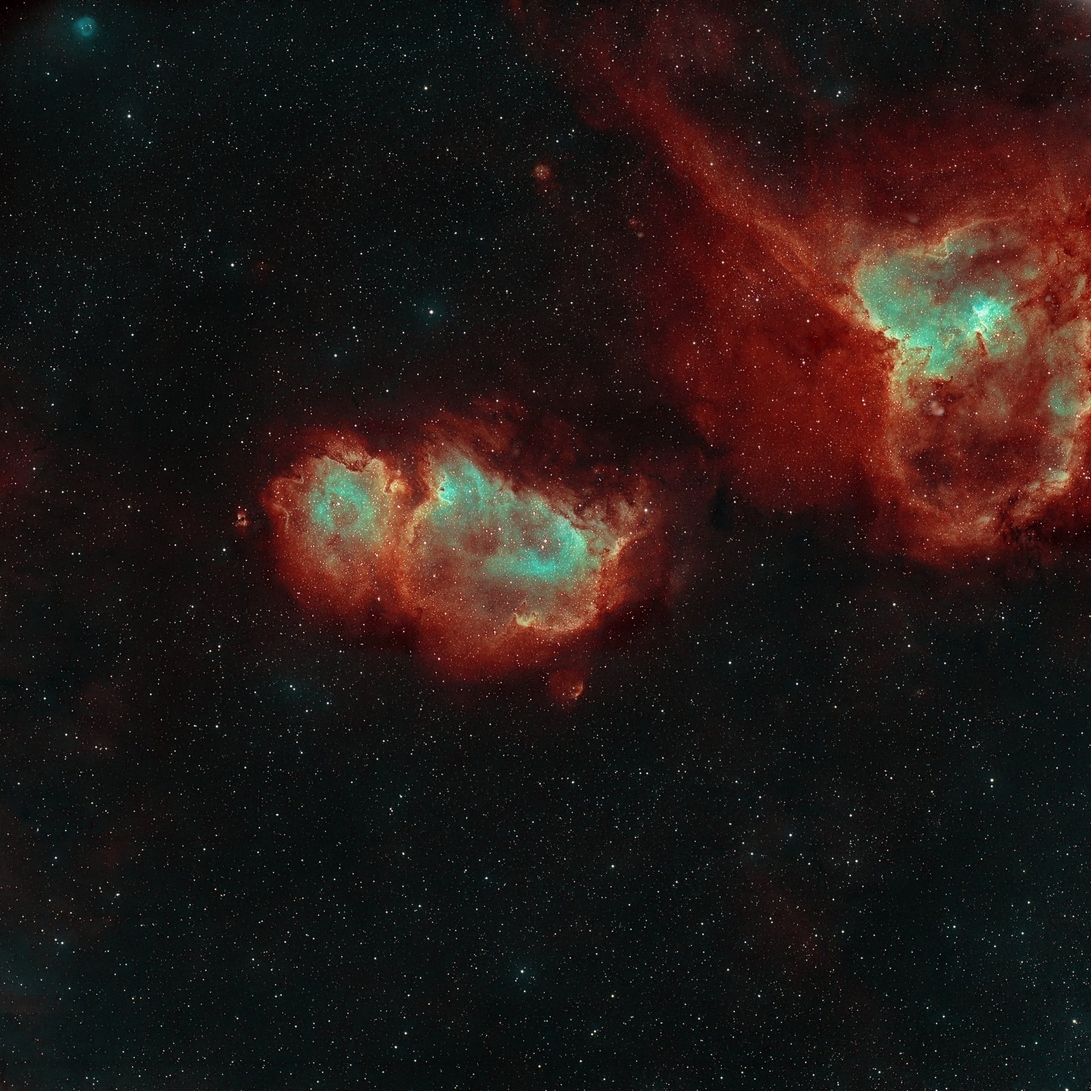
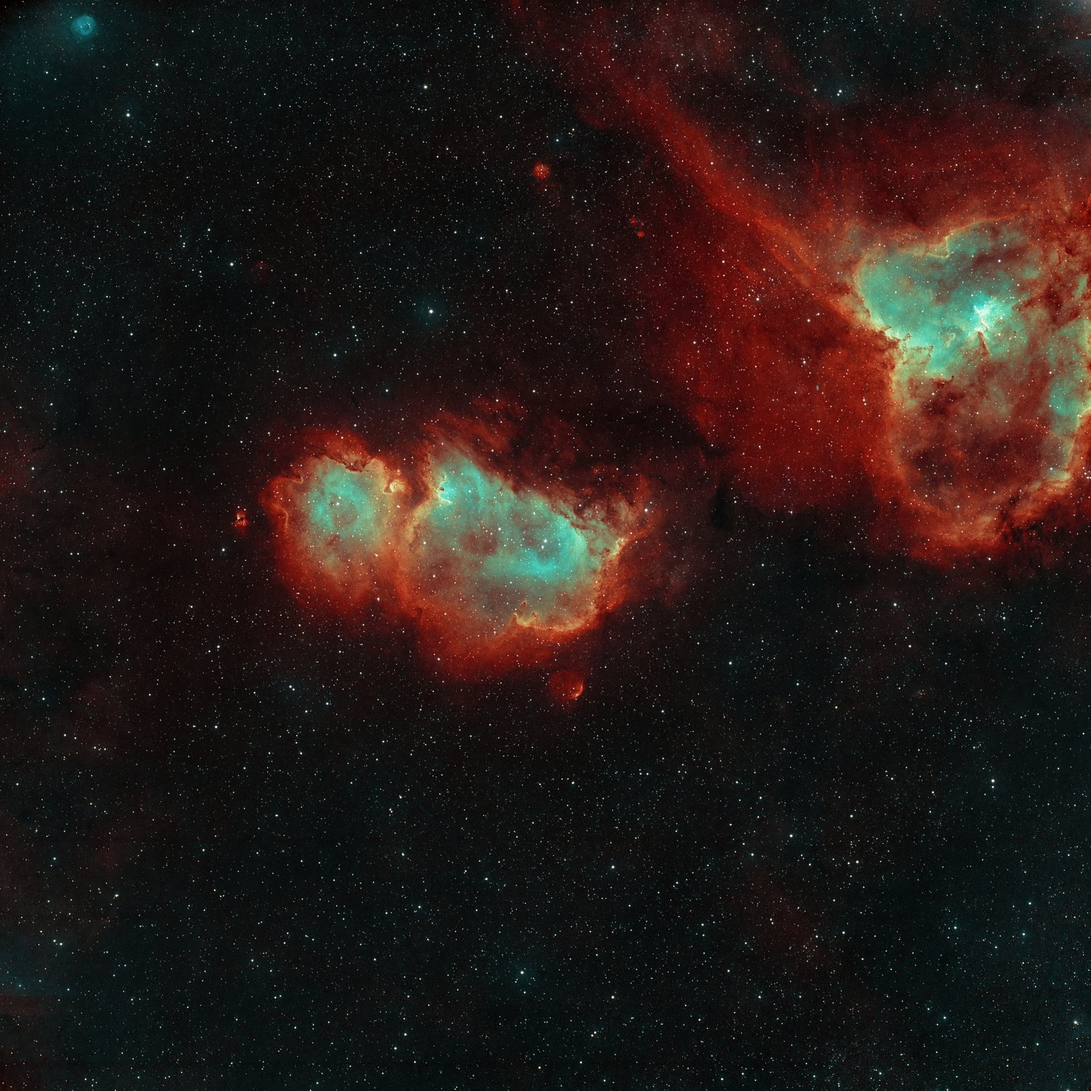
Prints: IC 1848 from a 2x drizzle (bigger sizes, Soul Nebula added)

diff --git a/index.html b/index.html
@@ -331,11 +331,15 @@ html { scroll-behavior: smooth; }
       </figure>
       <figure class="print">
         <img src="img/tl_ic1848_wide.jpg" alt="Heart and Soul, wide field (IC 1805 and IC 1848)" loading="lazy">
-        <figcaption><b>Heart and Soul, wide field (IC 1805 and IC 1848)</b><span>21 h 50 min</span><span class="credit">Processed by Mark Stanners, original data from Telescope Live</span><span class="sizes">A4 £25 · A3 £45 · A2 £80</span></figcaption>
+        <figcaption><b>Heart and Soul, wide field (IC 1805 and IC 1848)</b><span>21 h 50 min</span><span class="credit">Processed by Mark Stanners, original data from Telescope Live</span><span class="sizes">A4 £25 · A3 £45 · A2 £80 · A1 £150</span></figcaption>
       </figure>
       <figure class="print">
         <img src="img/tl_ic1848_heart_soul.jpg" alt="Heart and Soul, Telescope Live" loading="lazy">
-        <figcaption><b>Heart and Soul, Telescope Live</b><span>21 h 50 min</span><span class="credit">Processed by Mark Stanners, original data from Telescope Live</span><span class="sizes">A4 £25</span><span class="onreq">A3 on request</span></figcaption>
+        <figcaption><b>Heart and Soul, Telescope Live</b><span>21 h 50 min</span><span class="credit">Processed by Mark Stanners, original data from Telescope Live</span><span class="sizes">A4 £25 · A3 £45 · A2 £80</span><span class="onreq">A1 on request</span></figcaption>
+      </figure>
+      <figure class="print">
+        <img src="img/tl_ic1848_soul.jpg" alt="Soul Nebula, IC 1848" loading="lazy">
+        <figcaption><b>Soul Nebula, IC 1848</b><span>21 h 50 min</span><span class="credit">Processed by Mark Stanners, original data from Telescope Live</span><span class="sizes">A4 £25 · A3 £45</span></figcaption>
       </figure>
       <figure class="print">
         <img src="img/m31_tl_seestar.jpg" alt="Andromeda, deep (Seestar + Telescope Live)" loading="lazy">
@@ -346,8 +350,8 @@ html { scroll-behavior: smooth; }
     <div class="media">
       <h3>Acrylic and metal</h3>
       <p>Most images can also be made as a face-mounted acrylic or an aluminium-mounted print: deep blacks, ready to hang, no frame needed. Priced on request; as a guide, from about £120 at A3 and £220 at A2.</p>
-      <p class="note">At A3: Heart and Soul; Andromeda, M31; The Pleiades, M45; Triangulum, M33; Elephant&#x27;s Trunk, IC 1396; Garlic Nebula; California Nebula, NGC 1499; Horsehead, B33; Fighting Dragons of Ara, NGC 6188; Running Chicken, IC 2944; Dumbbell Nebula, M27; Butterfly Cluster, M7; Eagle Nebula, M16; Heart and Soul, wide field (IC 1805 and IC 1848); Andromeda, deep (Seestar + Telescope Live).</p>
-      <p class="note">At A2: Heart and Soul; Garlic Nebula; Horsehead, B33; Fighting Dragons of Ara, NGC 6188; Running Chicken, IC 2944; Dumbbell Nebula, M27; Butterfly Cluster, M7; Heart and Soul, wide field (IC 1805 and IC 1848); Andromeda, deep (Seestar + Telescope Live).</p>
+      <p class="note">At A3: Heart and Soul; Andromeda, M31; The Pleiades, M45; Triangulum, M33; Elephant&#x27;s Trunk, IC 1396; Garlic Nebula; California Nebula, NGC 1499; Horsehead, B33; Fighting Dragons of Ara, NGC 6188; Running Chicken, IC 2944; Dumbbell Nebula, M27; Butterfly Cluster, M7; Eagle Nebula, M16; Heart and Soul, wide field (IC 1805 and IC 1848); Heart and Soul, Telescope Live; Soul Nebula, IC 1848; Andromeda, deep (Seestar + Telescope Live).</p>
+      <p class="note">At A2: Heart and Soul; Garlic Nebula; Horsehead, B33; Fighting Dragons of Ara, NGC 6188; Running Chicken, IC 2944; Dumbbell Nebula, M27; Butterfly Cluster, M7; Heart and Soul, wide field (IC 1805 and IC 1848); Heart and Soul, Telescope Live; Andromeda, deep (Seestar + Telescope Live).</p>
     </div>
     <p class="note">To order, email me with the picture, size and finish.</p>
   </div>

diff --git a/site.html b/site.html
@@ -317,11 +317,15 @@ html { scroll-behavior: smooth; }
       </figure>
       <figure class="print">
         <img src="img/tl_ic1848_wide.jpg" alt="Heart and Soul, wide field (IC 1805 and IC 1848)" loading="lazy">
-        <figcaption><b>Heart and Soul, wide field (IC 1805 and IC 1848)</b><span>21 h 50 min</span><span class="credit">Processed by Mark Stanners, original data from Telescope Live</span><span class="sizes">A4 £25 · A3 £45 · A2 £80</span></figcaption>
+        <figcaption><b>Heart and Soul, wide field (IC 1805 and IC 1848)</b><span>21 h 50 min</span><span class="credit">Processed by Mark Stanners, original data from Telescope Live</span><span class="sizes">A4 £25 · A3 £45 · A2 £80 · A1 £150</span></figcaption>
       </figure>
       <figure class="print">
         <img src="img/tl_ic1848_heart_soul.jpg" alt="Heart and Soul, Telescope Live" loading="lazy">
-        <figcaption><b>Heart and Soul, Telescope Live</b><span>21 h 50 min</span><span class="credit">Processed by Mark Stanners, original data from Telescope Live</span><span class="sizes">A4 £25</span><span class="onreq">A3 on request</span></figcaption>
+        <figcaption><b>Heart and Soul, Telescope Live</b><span>21 h 50 min</span><span class="credit">Processed by Mark Stanners, original data from Telescope Live</span><span class="sizes">A4 £25 · A3 £45 · A2 £80</span><span class="onreq">A1 on request</span></figcaption>
+      </figure>
+      <figure class="print">
+        <img src="img/tl_ic1848_soul.jpg" alt="Soul Nebula, IC 1848" loading="lazy">
+        <figcaption><b>Soul Nebula, IC 1848</b><span>21 h 50 min</span><span class="credit">Processed by Mark Stanners, original data from Telescope Live</span><span class="sizes">A4 £25 · A3 £45</span></figcaption>
       </figure>
       <figure class="print">
         <img src="img/m31_tl_seestar.jpg" alt="Andromeda, deep (Seestar + Telescope Live)" loading="lazy">
@@ -332,8 +336,8 @@ html { scroll-behavior: smooth; }
     <div class="media">
       <h3>Acrylic and metal</h3>
       <p>Most images can also be made as a face-mounted acrylic or an aluminium-mounted print: deep blacks, ready to hang, no frame needed. Priced on request; as a guide, from about £120 at A3 and £220 at A2.</p>
-      <p class="note">At A3: Heart and Soul; Andromeda, M31; The Pleiades, M45; Triangulum, M33; Elephant&#x27;s Trunk, IC 1396; Garlic Nebula; California Nebula, NGC 1499; Horsehead, B33; Fighting Dragons of Ara, NGC 6188; Running Chicken, IC 2944; Dumbbell Nebula, M27; Butterfly Cluster, M7; Eagle Nebula, M16; Heart and Soul, wide field (IC 1805 and IC 1848); Andromeda, deep (Seestar + Telescope Live).</p>
-      <p class="note">At A2: Heart and Soul; Garlic Nebula; Horsehead, B33; Fighting Dragons of Ara, NGC 6188; Running Chicken, IC 2944; Dumbbell Nebula, M27; Butterfly Cluster, M7; Heart and Soul, wide field (IC 1805 and IC 1848); Andromeda, deep (Seestar + Telescope Live).</p>
+      <p class="note">At A3: Heart and Soul; Andromeda, M31; The Pleiades, M45; Triangulum, M33; Elephant&#x27;s Trunk, IC 1396; Garlic Nebula; California Nebula, NGC 1499; Horsehead, B33; Fighting Dragons of Ara, NGC 6188; Running Chicken, IC 2944; Dumbbell Nebula, M27; Butterfly Cluster, M7; Eagle Nebula, M16; Heart and Soul, wide field (IC 1805 and IC 1848); Heart and Soul, Telescope Live; Soul Nebula, IC 1848; Andromeda, deep (Seestar + Telescope Live).</p>
+      <p class="note">At A2: Heart and Soul; Garlic Nebula; Horsehead, B33; Fighting Dragons of Ara, NGC 6188; Running Chicken, IC 2944; Dumbbell Nebula, M27; Butterfly Cluster, M7; Heart and Soul, wide field (IC 1805 and IC 1848); Heart and Soul, Telescope Live; Andromeda, deep (Seestar + Telescope Live).</p>
     </div>
     <p class="note">To order, email me with the picture, size and finish.</p>
   </div>
